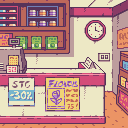
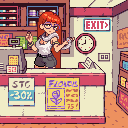
mina store updates (#764)
can exit now through in-room clickables

diff --git a/packages/client/src/constants/rooms/13_giftshop.ts b/packages/client/src/constants/rooms/13_giftshop.ts
@@ -17,13 +17,18 @@ export const room13: Room = {
   objects: [
     {
       name: 'clock',
-      coordinates: { x1: 85, y1: 20, x2: 106, y2: 41 },
+      coordinates: { x1: 75, y1: 33, x2: 96, y2: 53 },
       dialogue: 131,
     },
     {
       name: 'mina',
-      coordinates: { x1: 33, y1: 20, x2: 66, y2: 68 },
+      coordinates: { x1: 33, y1: 12, x2: 63, y2: 68 },
       dialogue: 132,
+    },
+    {
+      name: 'exit',
+      coordinates: { x1: 83, y1: 17, x2: 111, y2: 32 },
+      dialogue: 133,
     },
     {
       name: 'cashregister',
@@ -31,8 +36,8 @@ export const room13: Room = {
       onClick: () => triggerShopModal(1),
     },
     {
-      name: 'shop door',
-      coordinates: { x1: 118, y1: 30, x2: 127, y2: 47 },
+      name: 'leaderboard',
+      coordinates: { x1: 117, y1: 27, x2: 128, y2: 49 },
       onClick: () => triggerLeaderboardModal('minaSpent'),
     },
   ],

diff --git a/packages/client/src/constants/dialogue/13_giftshop.ts b/packages/client/src/constants/dialogue/13_giftshop.ts
@@ -10,24 +10,14 @@ export const mina: DialogueNode = {
   text: ["Mina doesn't want to talk to you. Perhaps her dialogue will be implemented soon."],
 };
 
-export default [clock, mina];
+const exit: DialogueNode = {
+  index: 133,
+  text: ["There's no exit in sight, but you also don't feel trapped."],
+  action: {
+    type: 'move',
+    label: 'Leave',
+    input: 2,
+  },
+};
 
-// export const room13: Room = {
-//   roomIndex: 13,
-//   background: {
-//     key: 'bg_room013',
-//     path: backgroundMina,
-//   },
-//   music: {
-//     key: 'forest',
-//     path: forestOST,
-//   },
-//   objects: [
-//     {
-//       key: 'cashregister',
-//       path: objectCashRegister,
-//       offset: { x: -50.5, y: -8.02 },
-//       onClick: () => triggerShopModal(1),
-//     },
-//   ],
-// };
+export default [clock, mina, exit];
